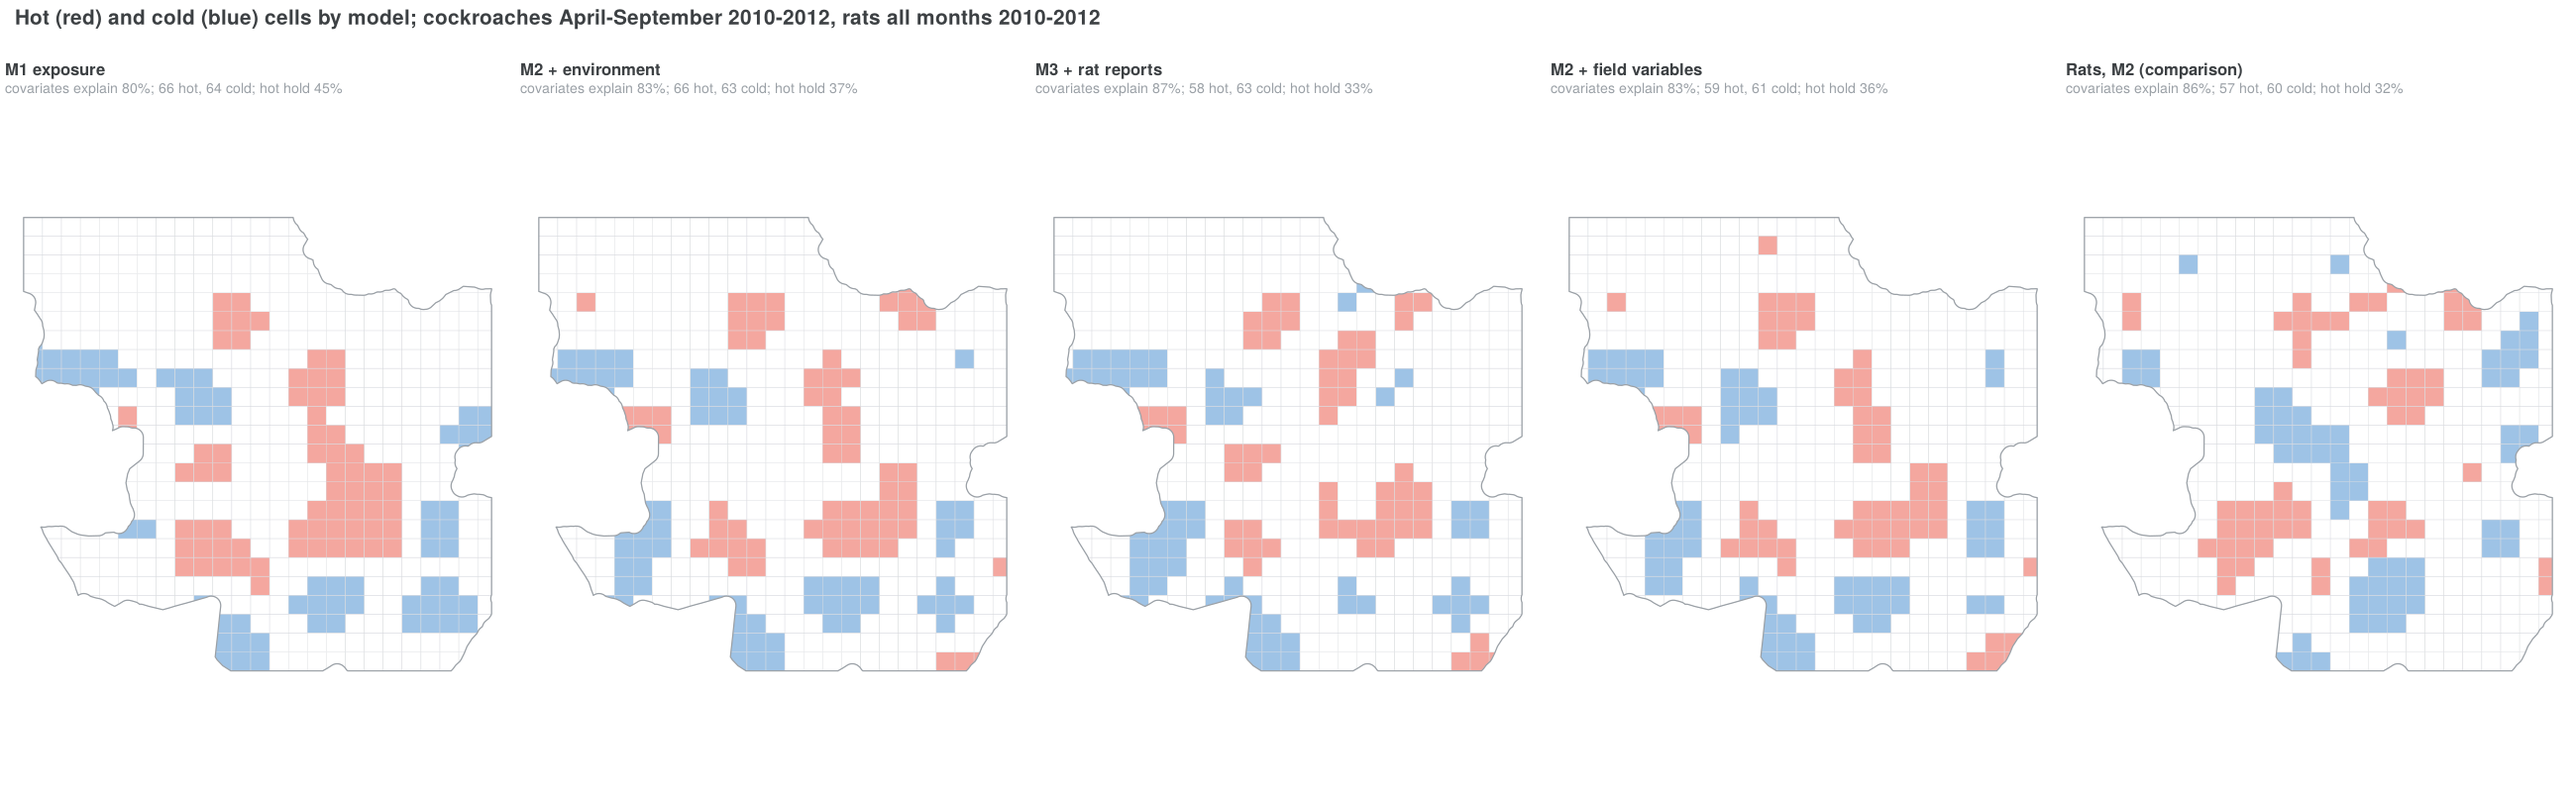
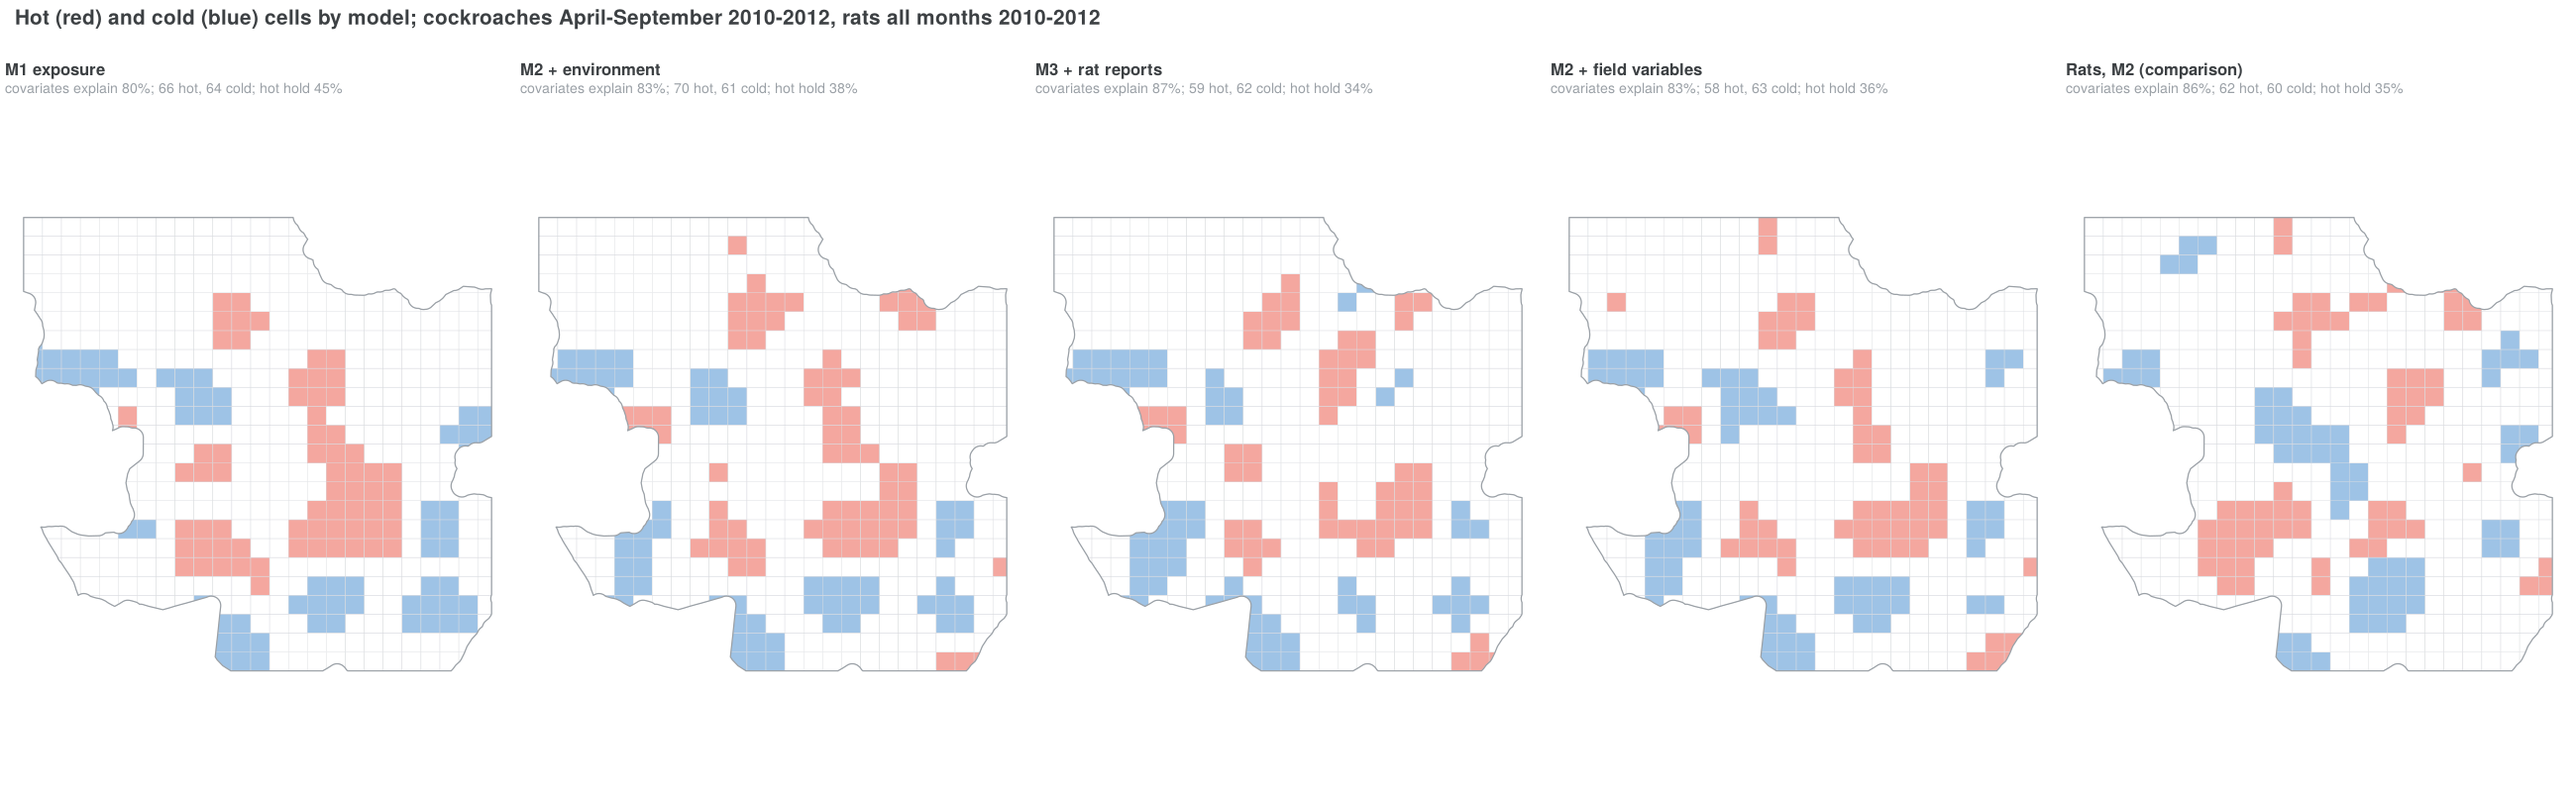
Final Madrid covariate set; README status

diff --git a/README.md b/README.md
@@ -40,18 +40,15 @@ rank_cells(res, "R3")[1:20]     # top-20 cells (zones first, then centrality)
 
 ## Plan and status
 
-- [x] **Step 1:** merged algorithm written down (`docs/algorithm.md`, draft 2)
-- [x] **Step 2:** core function in `R/` + unit tests (all passing)
-- [x] **Step 3:** small test (`simulation/01_small_test.R`). Findings and open questions are in `docs/step3_findings.md`
-- [x] **Step 3b:** signal strength × cell size × exponent a × log scale (`simulation/02_signal_test.R`, run on the Mac). Findings: `docs/step3b_findings.md`
-- [x] **Step 3c:** latent-graph recovery test (`simulation/03_latent_graph.R`): the reconstruction does NOT recover W*. See `docs/step3c_latent_graph.md`
-- [ ] **Decision:** how to frame the contribution (with co-authors) + add Gi*/LISA baselines
-- [ ] **Step 4:** full simulation study: top-m metric, ranking variants R0–R3, baselines (top counts B0, Getis-Ord Gi*, LISA), CSR null scenario, scenario **with covariates**
-- [ ] **Step 5:** Madrid application, rerun with the package:
-  - hot/cold map per summer (2010–2013)
-  - **persistence map**: zones that are hot in several summers
-  - **out-of-sample table**: choose m cells with year t and count the sightings of year t+1 (2010→11, 11→12, 12→13), for each ranking variant and baseline. Caveat for the paper: possible interventions between years are unknown and affect all methods equally, so the comparison between methods stays fair, but absolute capture rates may be underestimated.
-- [ ] **Step 6:** revise the paper + point-by-point response (manuscript number, tracked changes)
+- [x] Steps 1-3c: algorithm written down, core functions + tests, small tests, signal test, latent-graph test (the reconstruction does not recover W*: moved to an appendix)
+- [x] Step 4: one-pass hot/cold map with a permutation band; Gi*/LISA benchmarks (`docs/step4_hotcold.md`)
+- [x] Steps 5-7: penalty choice (ridge, smooth eigenvectors, CV), Moran gate, cluster shapes (`docs/step5*`-`step7*`)
+- [x] Step 8: full simulation study, 2400 datasets (`simulation/17_full_study.R`, `docs/step8_full_study.md`)
+- [x] Step 9: gate checks (`docs/step9_gate.md`)
+- [x] Steps 10-12: Madrid application; nested models (exposure, environment, rat reports); covariate relevance (`application/`, `docs/step10*`-`step12*`)
+- [ ] Open data questions: D_GatoOK vs D_Gatos; units of Densidad; deduplication of repeated reports
+- [ ] Grid-size sensitivity (500 m, 1 km, 2 km) for the Madrid models
+- [ ] Revise the paper + point-by-point response (manuscript number, tracked changes)
 
 ## Where the old code is
 

diff --git a/docs/step12_covariate_relevance.md b/docs/step12_covariate_relevance.md
@@ -38,3 +38,11 @@ Plain OLS p-values are much smaller (spatial autocorrelation inflates them): e.g
 Field-campaign variables add 0.6 points of explained variance and change the hot map little (overlap 0.81).
 
 Out-of-sample 2013, 25 / 50 cells: M1 19% / 33%, M2 13% / 28%, M3 11% / 25%, M2 + field 14% / 29%, top counts 29% / 50% of sightings.
+
+## Final M2 (20 Oct 2026): D_Mercados and Euros removed
+
+M2 = exposure (log residential, Densidad, log area) + dist_verd, AreaVer, YCons, dist_agua, dist_fuent, D_GatoOK, Desempleo.
+- M2: covariates explain 82.7%, Moran z 9.1, 70 hot / 61 cold, hot cells hold 38% of reports.
+- Coefficients barely change; dist_verd becomes significant (+0.08, p = 0.04); all seven keep the same sign in every summer.
+- M3: 87.5%, z 5.6, 59 hot. Rats M2: 85.9%, z 8.8, 62 hot. D_Gatos variant: 69 hot.
+- Out-of-sample 2013 (25 / 50 cells): M2 13% / 29% of sightings.
